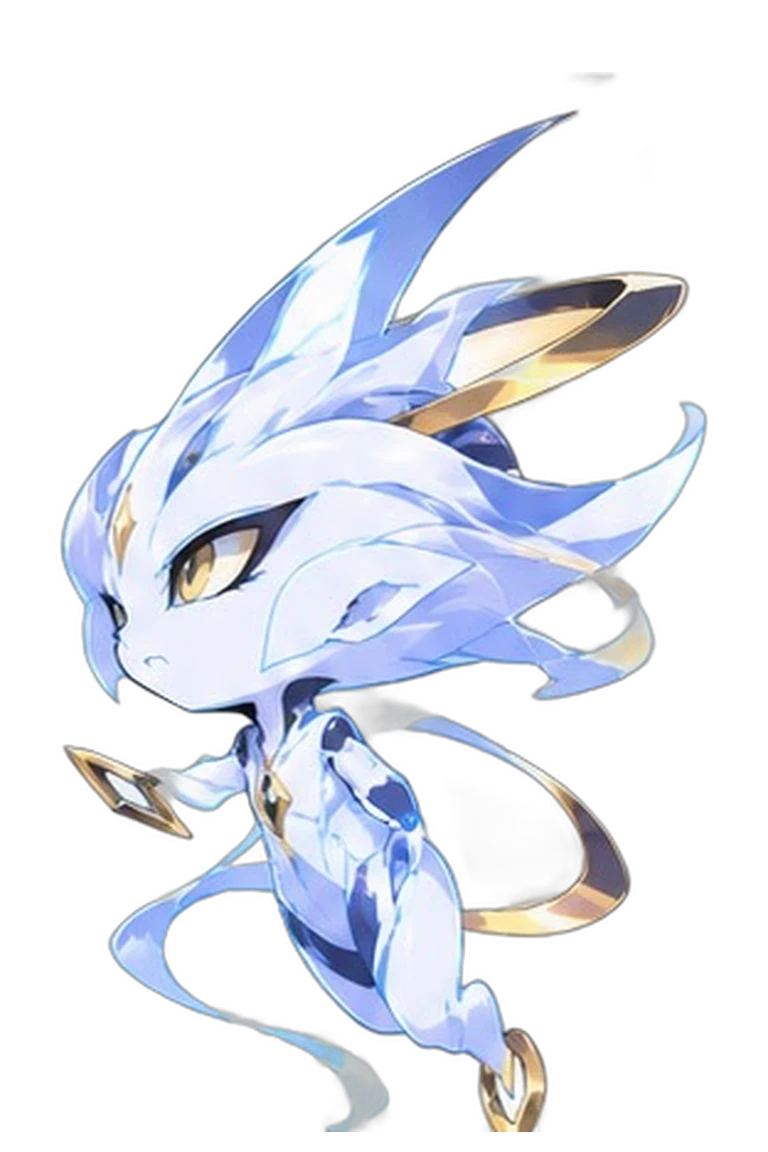
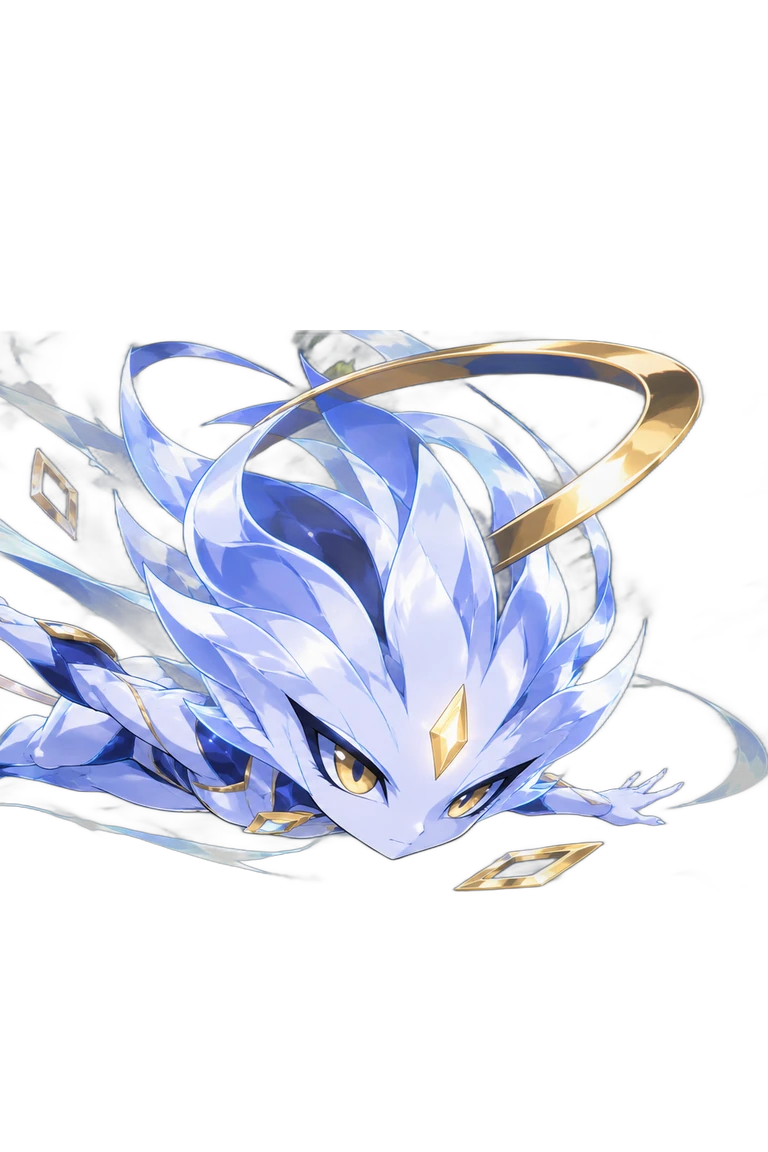
神々の一手: ゼウスの立ち絵・アイコンを高解像度の絵に差し替え
Claude-Session: https://claude.ai/code/session_01NjDefky3kmAgjasUb6fgAf

diff --git a/kamigami/tutorial.js b/kamigami/tutorial.js
@@ -47,7 +47,7 @@ function tutorialStart(){if(typeof start!=='function')return;TUT_STEPS.forEach(x
  let g=mk(c,6);g.hp=2;g.bornTurn=-5;c.units.push(g);c.turns=1;render();
  TUT={i:0,el:null,ring:null,timer:null,allow:null};tutGuardOn();tutDraw();TUT.timer=setInterval(tutTick,150)}
 function tutDraw(){if(TUT)TUT.t=0;let s=TUT_STEPS[TUT.i];if(s.enter&&!s._done){s._done=1;try{s.enter()}catch(e){}}if(!TUT.el){TUT.el=document.createElement('div');TUT.el.className='tut-box';document.body.appendChild(TUT.el);TUT.ring=document.createElement('div');TUT.ring.className='tut-ring';document.body.appendChild(TUT.ring)}
-  TUT.el.innerHTML='<img src="story/portraits/zeus.webp" alt="" onerror="this.remove()"><div class="tut-txt"><b>ゼウス</b><p>'+s.say+'</p><div class="tut-acts"><small>'+(TUT.i+1)+' / '+TUT_STEPS.length+'</small>'
+  TUT.el.innerHTML='<img src="story/portraits/zeus-icon.webp" alt="" onerror="this.remove()"><div class="tut-txt"><b>ゼウス</b><p>'+s.say+'</p><div class="tut-acts"><small>'+(TUT.i+1)+' / '+TUT_STEPS.length+'</small>'
  +(s.wait?(s.noNext?'':'<em>光っている所を押してね</em>')+(s.auto?'<button class="tut-help" onclick="tutAuto()" hidden>うまくいかない？ 代わりにやる</button>':''):'<button class="tut-next" onclick="tutNext()">'+(s.last?'はじめる':'次へ')+'</button>')+'<button class="tut-skip" onclick="if(this.dataset.ok){tutEnd(true)}else{this.dataset.ok=1;this.textContent=\'もう一度押すとスキップ\'}">スキップ</button></div></div>';tutRing()}
 function tutRing(){if(!TUT)return;let s=TUT_STEPS[TUT.i],sel=s.hl&&s.hl(),el=sel&&[...document.querySelectorAll(sel)].find(e=>e.getClientRects().length);
  document.querySelectorAll('.tut-glow').forEach(e=>{if(e!==el)e.classList.remove('tut-glow')});TUT.allow=s.wait?el:null;if(el&&s.wait)el.classList.add('tut-glow');if(!el||!el.getClientRects().length){TUT.ring.style.display='none';tutPos(s,null);return}
